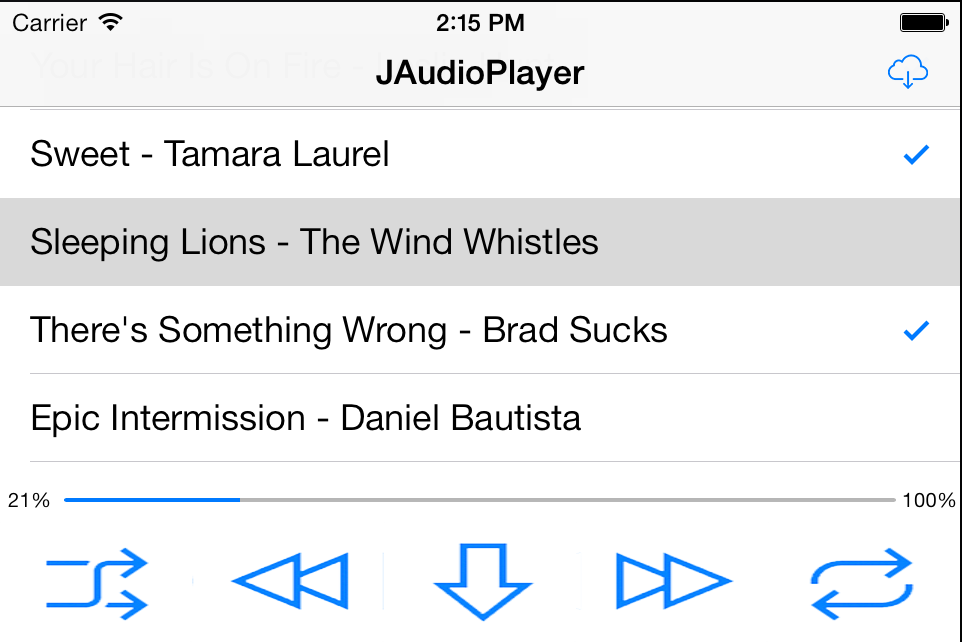
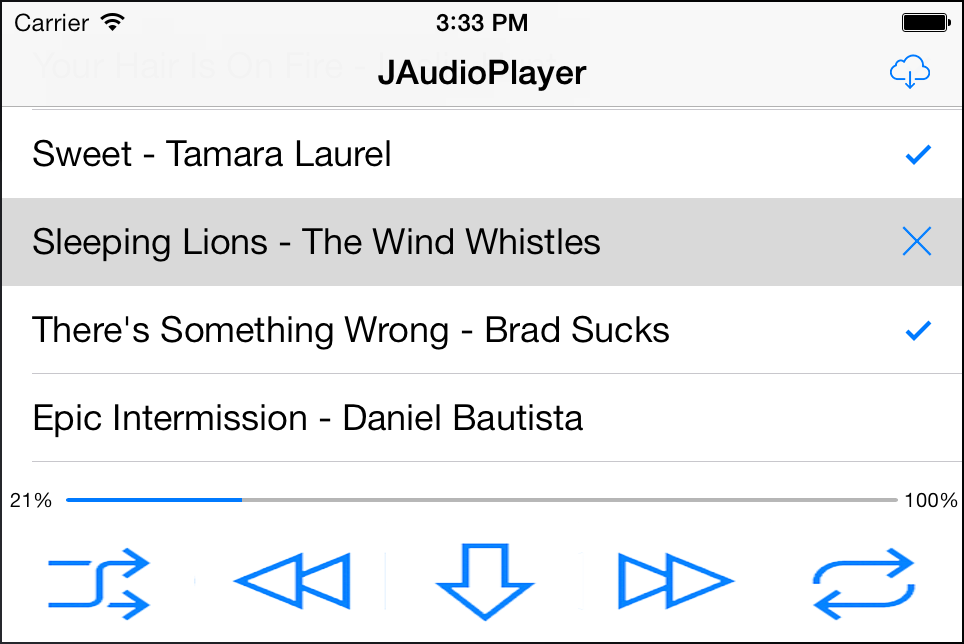
change play button from control center

diff --git a/JAudioPlayer/JMPViewController.m b/JAudioPlayer/JMPViewController.m
@@ -439,16 +439,20 @@
         switch (receivedEvent.subtype) {
             case UIEventSubtypeRemoteControlPlay:
                 [self playSong];
+                songStatus = PLAYING;
                 break;
             case UIEventSubtypeRemoteControlPause:
                 [self pauseSong];
+                songStatus = DOWNLOADED;
                 break;
             case UIEventSubtypeRemoteControlTogglePlayPause:
                 if (_player.playing) {
                     [self pauseSong];
+                    songStatus = DOWNLOADED;
                 }
                 else {
                     [self playSong];
+                    songStatus = PLAYING;
                 }
                 break;
             case UIEventSubtypeRemoteControlNextTrack:
